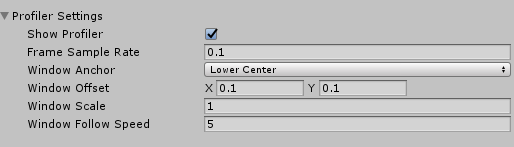
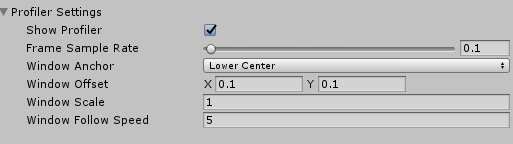
update diagnostics config doc and images

diff --git a/Documentation/Diagnostics/ConfiguringDiagnostics.md b/Documentation/Diagnostics/ConfiguringDiagnostics.md
@@ -6,11 +6,42 @@ The diagnostics system profile provides options for configuring:
 
 ## General Settings
 
-<< >>
+![Diagnostics General Settings](../../External/ReadMeImages/Diagnostics/DiagnosticsGeneralSettings.png)
+
+### Show Diagnostics
+
+Indicates whether or not the diagnostics system is to display the configured diagnostic options.
+
+> When disabled, all configured diagnostic options will be hidden.
 
 ## Profiler Settings
 
-<< >>
+![Diagnostics Profiler Settings](../../External/ReadMeImages/Diagnostics/DiagnosticsProfilerSettings.png)
+
+### Show Profiler
+
+Indicates whether or not the Visual Profiler is to be displayed.
+
+### Frame Sample Rate
+
+The amount of time, in seconds to collect frames for frame rate calculation. The range is 0 to 5 seconds.
+
+### Window Anchor
+
+To what portion of the view port should the profiler window be anchored. The default value is Lower Center.
+
+### Window Offset
+
+The offset, from the center of the view port, to place the Visual Profiler. The offset will be in the direction
+of the [Window Anchor](#window-anchor).
+
+### Window Scale
+
+Size multiplier applied to the profiler window. For example, setting the value to 2 will double the window size.
+
+### Window Follow Speed
+
+The speed at which to move the profiler window to maintain visibility within the view port.
 
 ## See Also
 
